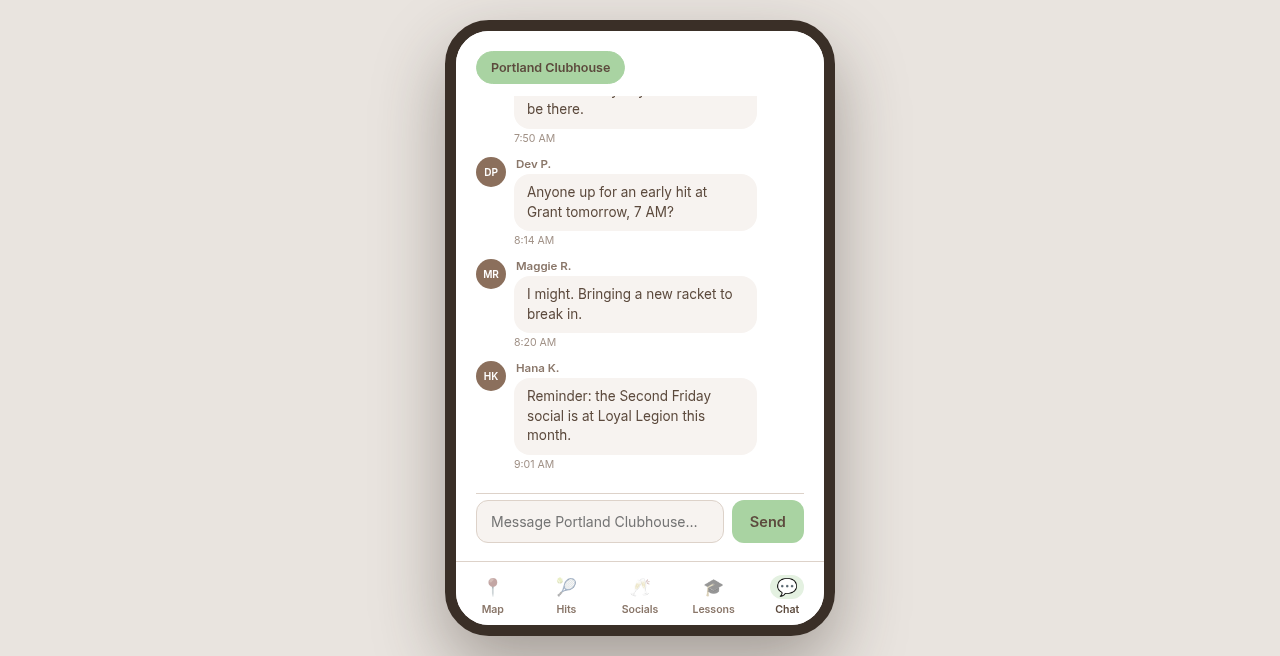
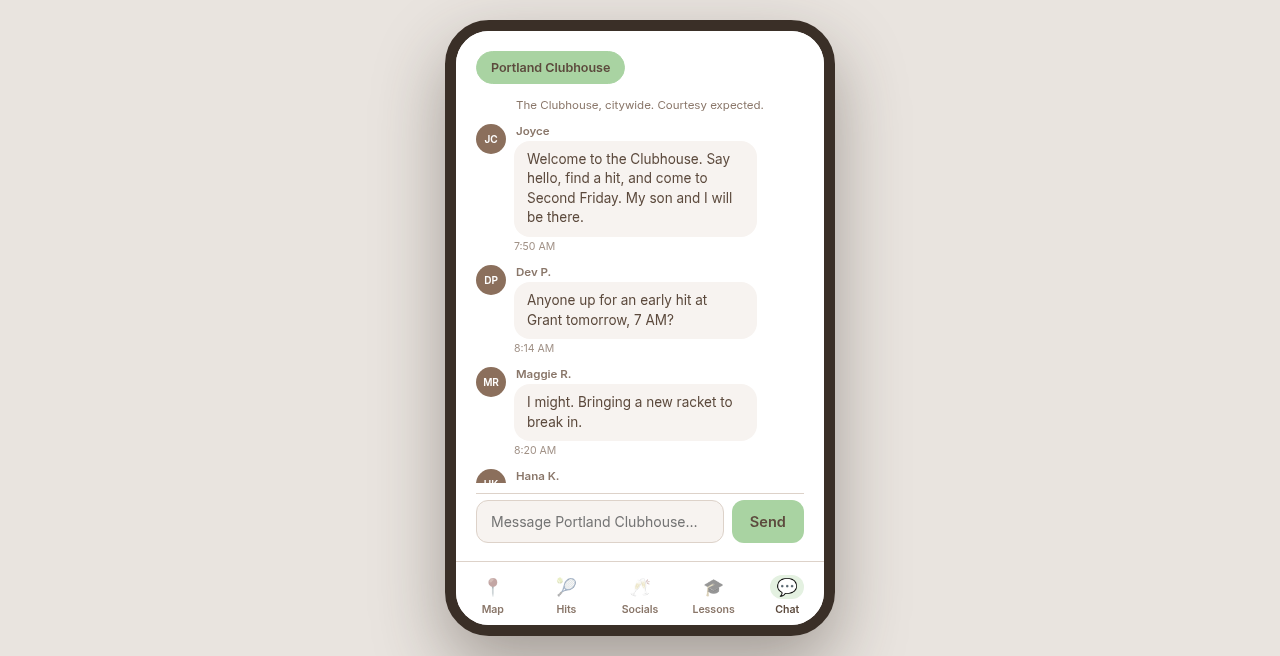
Update 40 Love v2: Joyce co-founder with her son

Changed region(s): [[0.375, 0.1524, 0.5938, 0.7317]]

diff --git a/dist/40Love.html b/dist/40Love.html
@@ -284,7 +284,7 @@ select.input { appearance: none; -webkit-appearance: none; padding-right: 36px; 
       'My mom and I built 40 Love for the love of connecting with others on the court.',
       'Tennis gave us new friends, new courts, and a reason to get outside and play. We wanted that for everyone who is forty and over: no swiping, no pressure. Just good people, good tennis, and the occasional glass of something after.'
     ],
-    signature: 'Joyce, co-founder, with her mom'
+    signature: 'Joyce, co-founder, with her son'
   });
   var ME = deepFreeze({ name: 'You', initials: 'ME', ntrp: 3.5 });
   var COURTS = deepFreeze([
@@ -307,7 +307,7 @@ select.input { appearance: none; -webkit-appearance: none; padding-right: 36px; 
     { id: 4, host: 3, courtId: 3, when: 'Sunday, 4:00 PM', type: 'Doubles', spots: 2, level: '4.0+', note: 'Looking for a steady doubles crew.' }
   ]);
   var EVENTS = deepFreeze([
-    { id: 1, kind: 'social', venue: 'Loyal Legion Beer Hall', when: 'Friday, September 11 at 6:30 PM', going: 18, cap: 30, blurb: 'Our monthly gathering: drinks, small plates, and good company. Rackets optional. Every second Friday, at a pub Joyce and her mom pick themselves.' },
+    { id: 1, kind: 'social', venue: 'Loyal Legion Beer Hall', when: 'Friday, September 11 at 6:30 PM', going: 18, cap: 30, blurb: 'Our monthly gathering: drinks, small plates, and good company. Rackets optional. Every second Friday, at a pub Joyce and her son pick themselves.' },
     { id: 2, kind: 'social', venue: "Bailey's Taproom", when: 'Friday, October 9 at 6:30 PM', going: 6, cap: 30, blurb: "October's venue. New faces always welcome." },
     { id: 3, kind: 'trip', venue: 'Indian Wells, California', when: 'March 2027, four days', going: 11, cap: 20, blurb: 'A club trip to the BNP Paribas Open. Shared lodging, carpools, and sessions together.' }
   ]);
@@ -317,7 +317,7 @@ select.input { appearance: none; -webkit-appearance: none; padding-right: 36px; 
     { id: 3, name: 'Aiko Tanaka', initials: 'AT', partner: false, rate: 50, cert: 'USPTA Certified', yrs: 9, focus: 'Beginners and return to sport', area: 'Laurelhurst area', rating: 5.0, reviews: 12, blurb: 'Encouraging lessons for those beginning, or returning after years away.' }
   ]);
   var SEED_CHAT = deepFreeze([
-    { who: 'Joyce', init: 'JC', t: 'Welcome to the Clubhouse. Say hello, find a hit, and come to Second Friday. My mom and I will be there.', at: '7:50 AM', me: false },
+    { who: 'Joyce', init: 'JC', t: 'Welcome to the Clubhouse. Say hello, find a hit, and come to Second Friday. My son and I will be there.', at: '7:50 AM', me: false },
     { who: 'Dev P.', init: 'DP', t: 'Anyone up for an early hit at Grant tomorrow, 7 AM?', at: '8:14 AM', me: false },
     { who: 'Maggie R.', init: 'MR', t: 'I might. Bringing a new racket to break in.', at: '8:20 AM', me: false },
     { who: 'Hana K.', init: 'HK', t: 'Reminder: the Second Friday social is at Loyal Legion this month.', at: '9:01 AM', me: false }
@@ -564,7 +564,7 @@ select.input { appearance: none; -webkit-appearance: none; padding-right: 36px; 
       var r = requestById(Number(id.slice(4)));
       if (r && r.host !== -1) { var h = hostOf(r); seed.push({ who: h.name, init: h.initials, t: 'Welcome to the group. See you ' + r.when.toLowerCase() + '.', at: timeNow(), me: false }); }
     } else if (id.indexOf('ev:') === 0) {
-      m = Number(id.slice(3)) === 3 ? "So glad you're in for Indian Wells. Lodging and carpool details will land here." : "So glad you're coming. Details go here closer to the date. My mom is in charge of the snacks.";
+      m = Number(id.slice(3)) === 3 ? "So glad you're in for Indian Wells. Lodging and carpool details will land here." : "So glad you're coming. Details go here closer to the date. My son is in charge of the snacks.";
       seed.push({ who: 'Joyce', init: 'JC', t: m, at: timeNow(), me: false });
     }
     state.msgs[id] = seed;

diff --git a/src/app.js b/src/app.js
@@ -52,7 +52,7 @@
       'My mom and I built 40 Love for the love of connecting with others on the court.',
       'Tennis gave us new friends, new courts, and a reason to get outside and play. We wanted that for everyone who is forty and over: no swiping, no pressure. Just good people, good tennis, and the occasional glass of something after.'
     ],
-    signature: 'Joyce, co-founder, with her mom'
+    signature: 'Joyce, co-founder, with her son'
   });
   var ME = deepFreeze({ name: 'You', initials: 'ME', ntrp: 3.5 });
   var COURTS = deepFreeze([
@@ -75,7 +75,7 @@
     { id: 4, host: 3, courtId: 3, when: 'Sunday, 4:00 PM', type: 'Doubles', spots: 2, level: '4.0+', note: 'Looking for a steady doubles crew.' }
   ]);
   var EVENTS = deepFreeze([
-    { id: 1, kind: 'social', venue: 'Loyal Legion Beer Hall', when: 'Friday, September 11 at 6:30 PM', going: 18, cap: 30, blurb: 'Our monthly gathering: drinks, small plates, and good company. Rackets optional. Every second Friday, at a pub Joyce and her mom pick themselves.' },
+    { id: 1, kind: 'social', venue: 'Loyal Legion Beer Hall', when: 'Friday, September 11 at 6:30 PM', going: 18, cap: 30, blurb: 'Our monthly gathering: drinks, small plates, and good company. Rackets optional. Every second Friday, at a pub Joyce and her son pick themselves.' },
     { id: 2, kind: 'social', venue: "Bailey's Taproom", when: 'Friday, October 9 at 6:30 PM', going: 6, cap: 30, blurb: "October's venue. New faces always welcome." },
     { id: 3, kind: 'trip', venue: 'Indian Wells, California', when: 'March 2027, four days', going: 11, cap: 20, blurb: 'A club trip to the BNP Paribas Open. Shared lodging, carpools, and sessions together.' }
   ]);
@@ -85,7 +85,7 @@
     { id: 3, name: 'Aiko Tanaka', initials: 'AT', partner: false, rate: 50, cert: 'USPTA Certified', yrs: 9, focus: 'Beginners and return to sport', area: 'Laurelhurst area', rating: 5.0, reviews: 12, blurb: 'Encouraging lessons for those beginning, or returning after years away.' }
   ]);
   var SEED_CHAT = deepFreeze([
-    { who: 'Joyce', init: 'JC', t: 'Welcome to the Clubhouse. Say hello, find a hit, and come to Second Friday. My mom and I will be there.', at: '7:50 AM', me: false },
+    { who: 'Joyce', init: 'JC', t: 'Welcome to the Clubhouse. Say hello, find a hit, and come to Second Friday. My son and I will be there.', at: '7:50 AM', me: false },
     { who: 'Dev P.', init: 'DP', t: 'Anyone up for an early hit at Grant tomorrow, 7 AM?', at: '8:14 AM', me: false },
     { who: 'Maggie R.', init: 'MR', t: 'I might. Bringing a new racket to break in.', at: '8:20 AM', me: false },
     { who: 'Hana K.', init: 'HK', t: 'Reminder: the Second Friday social is at Loyal Legion this month.', at: '9:01 AM', me: false }
@@ -332,7 +332,7 @@
       var r = requestById(Number(id.slice(4)));
       if (r && r.host !== -1) { var h = hostOf(r); seed.push({ who: h.name, init: h.initials, t: 'Welcome to the group. See you ' + r.when.toLowerCase() + '.', at: timeNow(), me: false }); }
     } else if (id.indexOf('ev:') === 0) {
-      m = Number(id.slice(3)) === 3 ? "So glad you're in for Indian Wells. Lodging and carpool details will land here." : "So glad you're coming. Details go here closer to the date. My mom is in charge of the snacks.";
+      m = Number(id.slice(3)) === 3 ? "So glad you're in for Indian Wells. Lodging and carpool details will land here." : "So glad you're coming. Details go here closer to the date. My son is in charge of the snacks.";
       seed.push({ who: 'Joyce', init: 'JC', t: m, at: timeNow(), me: false });
     }
     state.msgs[id] = seed;

diff --git a/test/app.test.js b/test/app.test.js
@@ -35,7 +35,7 @@ function boot(storage) {
 
   section('Launch pad');
   ok(q('.launch'), 'launch pad renders first');
-  ok(text().includes('My mom and I built 40 Love'), 'founder note from Joyce and her mom is shown');
+  ok(text().includes('My mom and I built 40 Love'), 'founder note from Joyce and her son is shown');
   ok(text().includes('Joyce, co-founder'), 'signature present');
   ok(q('[data-act=to-gate]'), '"Come on in" button present');
   click(q('[data-act=to-gate]'));
@@ -116,14 +116,14 @@ function boot(storage) {
 
   section('Socials');
   click(q('[data-act=tab][data-id=social]'));
-  ok(text().includes('Social gatherings') && text().includes('Joyce and her mom pick'), 'socials + personal touch');
+  ok(text().includes('Social gatherings') && text().includes('Joyce and her son pick'), 'socials + personal touch');
   click(q('[data-act=rsvp][data-id="1"]'));
   ok(text().includes("You're attending") && text().includes('19 attending'), 'RSVP reflects in count');
   click(q('[data-act=rsvp][data-id="3"]'));
   click(q('[data-act=tab][data-id=chat]'));
   ok(text().includes('Second Friday') && text().includes('Indian Wells trip'), 'event group chats appear after RSVP');
   click(q('[data-act=room][data-id="ev:1"]'));
-  ok(q('#msgs').textContent.includes('My mom is in charge of the snacks'), 'Joyce greets in the social group');
+  ok(q('#msgs').textContent.includes('My son is in charge of the snacks'), 'Joyce greets in the social group');
 
   section('Lessons');
   click(q('[data-act=tab][data-id=lessons]'));

diff --git a/docs/PITCH.md b/docs/PITCH.md
@@ -2,7 +2,7 @@
 
 **A tennis club for players forty and over.** Courts, open hits, coaching, monthly social gatherings, and good company nearby. Friendships first; should something more grow from it, all the better.
 
-*Founded by Joyce and her mom, for the love of connecting with others on the court.*
+*Founded by Joyce and her son, for the love of connecting with others on the court.*
 
 ---
 
@@ -62,7 +62,7 @@ Pre-seed funding to build the backend and mobile release, hire one full-stack en
 
 ## Founders
 
-**Joyce** — product and community. **Joyce's mom** — heart of the club, and the reason it exists: she is the member this is built for, and she picks the pubs.
+**Joyce** — community and the heart of the club: she is the member this is built for, and she picks the pubs. **Joyce's son** — product and technology.
 
 ---
 

diff --git a/README.md b/README.md
@@ -2,13 +2,13 @@
 
 A tennis club for players forty and over. Courts, open hits, coaching, monthly social gatherings, and good company nearby.
 
-Built by Joyce and her mom, for the love of connecting with others on the court.
+Built by Joyce and her son, for the love of connecting with others on the court.
 
 ---
 
 ## Quick start (VS Code)
 
-1. Open this folder in VS Code (`File → Open Folder…`).
+1. Open this folder in VS Code (`File > Open Folder…`).
 2. Accept the recommended extensions when prompted (Live Server, ESLint, EditorConfig).
 3. Open a terminal (`Ctrl+`` ` `` / `` Cmd+` ``) and run:
 
